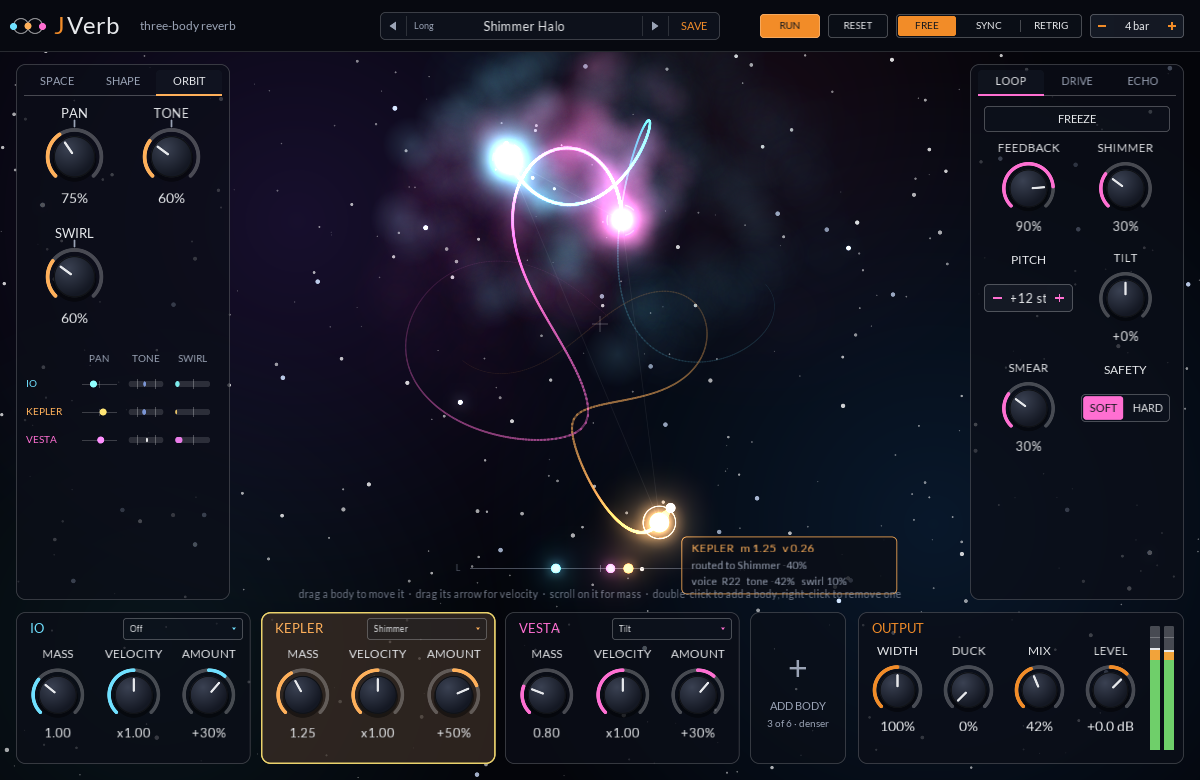
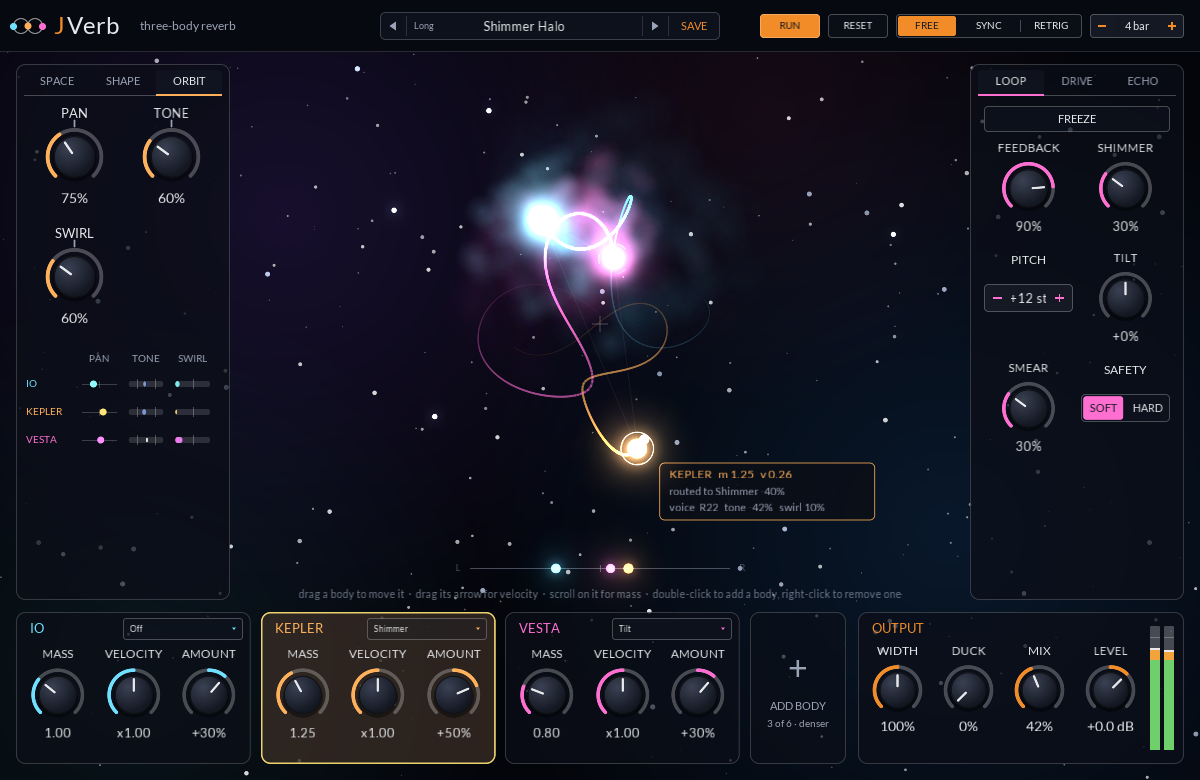
JVerb: draw the system at its System Size, and let it reach 10 AU (#30)
The stage now scales the orbits with System Size (a quarter of the stage
at 0.25 AU, all of it at 10) and shows faint AU rings while the knob
turns, fading 5 s after, or while the mouse is over the system. System
Size runs to 10 AU, so the longest tank line reaches 2.02 s; the early
taps stop at 4x. Feedback eases off past Size 3 to stay calibrated.

Claude-Session: https://claude.ai/code/session_01P2F1L9BY9UGHiV1D4VG4BV

Changed region(s): [[0.3083, 0.0615, 0.7092, 0.7692], [0.37, 0.5231, 0.4008, 0.5538]]

diff --git a/plugins/jverb/src/editor.cpp b/plugins/jverb/src/editor.cpp
@@ -175,6 +175,8 @@ public:
 
    // Readout and velocity arrow for this body (-1 for none). Clicking a body selects it.
    int selected = -1;
+   // The System Size knob, which sets how big the stage draws the system.
+   float systemSize = 1.0f;
 
    // One frame of animation, `dt` seconds after the last.
    void advance(const OrbitFrame &f, float dt) {
@@ -218,6 +220,19 @@ public:
          zoom_ += (target - zoom_) * std::min(1.0f, dt * 2.5f);
       else
          zoom_ = std::min(target, zoom_ * std::exp(std::min(0.05f, 0.25f * std::log(target / zoom_)) * dt));
+      // On top of that the stage draws the system at its System Size: a quarter of the stage at
+      // 0.25 AU, about half at 1, all of it at 10 (on a log scale, so both ends stay readable). It
+      // follows the knob in about a tenth of a second.
+      const float sized = 0.25f + 0.75f * std::log(std::clamp(systemSize, 0.25f, 10.0f) / 0.25f) / std::log(40.0f);
+      sizeView_ = sizeView_ <= 0.0f ? sized : sizeView_ + (sized - sizeView_) * std::min(1.0f, dt * 10.0f);
+      // The AU rings show only while System Size is turning (gone 5 s after it stops) or while the
+      // mouse is over the system.
+      if (shownSize_ > 0.0f && std::abs(systemSize - shownSize_) > 1e-4f)
+         sinceSize_ = 0.0f;
+      shownSize_ = systemSize;
+      sinceSize_ += dt;
+      const float want = overStage_ ? 1.0f : std::clamp((5.0f - sinceSize_) / 1.5f, 0.0f, 1.0f);
+      scaleAlpha_ += (want - scaleAlpha_) * std::min(1.0f, dt * 6.0f);
 
       for (int band = 0; band < 3; ++band) {
          if (f.hits[band] != seenHits_[band]) {
@@ -242,11 +257,13 @@ public:
       c.fill(0, 0, width(), height());
       drawBackdrop(c, s);
 
-      const float ppu = zoom_ * s;
+      const float ppu = scale() * s;
       const float cx = kStageX * s, cy = kStageY * s;
       const auto X = [&](float x) { return cx + x * ppu; };
       const auto Y = [&](float y) { return cy + y * ppu; };
       const OrbitFrame &f = frame_;
+
+      drawScale(c, s, cx, cy, ppu);
 
       // The centre of mass, and a faint tether between each body and the next.
       c.setColor(glow(kText, 0.3f, 1.0f));
@@ -379,6 +396,8 @@ public:
    }
 
    void mouseMove(const visage::MouseEvent &e) override {
+      const float s = width() / designWidth_;
+      overStage_ = std::hypot(e.position.x - kStageX * s, e.position.y - kStageY * s) < kStageRadius * 1.15f * s;
       const int h = bodyAt(e.position);
       if (h != hover_) {
          hover_ = h;
@@ -386,7 +405,10 @@ public:
       }
    }
 
-   void mouseExit(const visage::MouseEvent &) override { hover_ = -1; }
+   void mouseExit(const visage::MouseEvent &) override {
+      hover_ = -1;
+      overStage_ = false;
+   }
 
    // Scrolling on a body changes its mass, about 5% a notch.
    bool mouseWheel(const visage::MouseEvent &e) override {
@@ -428,7 +450,7 @@ private:
       host_.endEdit(kBodies);
    }
 
-   float ppu() const { return zoom_ * width() / designWidth_; }
+   float ppu() const { return scale() * width() / designWidth_; }
    visage::Point toWorld(visage::Point p) const {
       const float s = width() / designWidth_;
       return {(p.x - kStageX * s) / ppu(), (p.y - kStageY * s) / ppu()};
@@ -599,7 +621,7 @@ private:
    void drawBackdrop(visage::Canvas &c, float s) {
       const float w = width(), h = height();
       const float cx = kStageX * s, cy = kStageY * s;
-      const float zoom = zoom_ > 0.0f ? zoom_ / kRestZoom : 1.0f;
+      const float zoom = zoom_ > 0.0f ? scale() / (0.53f * kRestZoom) : 1.0f;
       // Nebulae, far away, and brightening a little with the tank.
       const float lift = std::min(1.0f, frame_.late * 3.0f);
       const float nk = std::clamp(std::pow(zoom, 0.25f), 0.8f, 1.4f);
@@ -640,6 +662,28 @@ private:
          const float r = (2.5f + 0.25f * bodyRadius(f.mass[b])) * s;
          c.setColor(glow(kBodyColors[b], 1.0f, 1.4f));
          c.circle(x - r, y - r + 0.5f * s, 2 * r);
+      }
+   }
+
+   // Pixels per world unit (before the window's own scale): the camera's fit times the System Size.
+   float scale() const { return zoom_ * (sizeView_ > 0.0f ? sizeView_ : 0.53f); }
+
+   // Faint rings at round distances in AU, so the size of the system reads off the stage. A world
+   // unit is System Size AU.
+   void drawScale(visage::Canvas &c, float s, float cx, float cy, float ppu) {
+      if (scaleAlpha_ < 0.01f)
+         return;
+      const float perAu = ppu / std::clamp(systemSize, 0.25f, 10.0f);
+      for (const float au : {0.25f, 0.5f, 1.0f, 2.0f, 4.0f, 8.0f, 16.0f}) {
+         const float r = au * perAu;
+         if (r < 40.0f * s || r > kStageRadius * 1.08f * s)
+            continue;
+         c.setColor(glow(kText, 0.07f * scaleAlpha_, 1.0f));
+         c.ring(cx - r, cy - r, 2 * r, 1.0f * s);
+         char label[16];
+         std::snprintf(label, sizeof label, au < 1.0f ? "%.2g AU" : "%.0f AU", au);
+         c.setColor(glow(kDim, 0.45f * scaleAlpha_, 1.0f));
+         c.text(label, ui::font(9 * s), visage::Font::kLeft, cx + 4 * s, cy - r - 12 * s, 60 * s, 11 * s);
       }
    }
 
@@ -695,7 +739,9 @@ private:
    uint32_t seenHits_[3] = {};
    float flare_[3] = {};
    float spawnCarry_[3] = {};
-   float zoom_ = 0.0f, span_ = 0.0f;
+   float zoom_ = 0.0f, span_ = 0.0f, sizeView_ = 0.0f;
+   float shownSize_ = 0.0f, sinceSize_ = 1e9f, scaleAlpha_ = 0.0f;
+   bool overStage_ = false;
    float swirlAngle_[kMaxBodies] = {};
    float time_ = 0.0f;
    int hover_ = -1, dragBody_ = -1;
@@ -1034,6 +1080,7 @@ public:
       OrbitFrame f;
       if (host_.readFrame(f))
          frame_ = f;
+      view_->systemSize = static_cast<float>(host_.paramValue(kSize));
       view_->advance(frame_, dt);
       const int count = currentBodies();
       if (count != laidOut_)

diff --git a/plugins/jverb/src/engine.h b/plugins/jverb/src/engine.h
@@ -612,7 +612,7 @@ public:
    // Once per control tick, before that tick's samples.
    void setControl(const Control &c) {
       c_ = c;
-      const double size = std::clamp(c.size, 0.25, 4.0);
+      const double size = std::clamp(c.size, 0.25, 10.0);
       const bool freeze = c.freeze;
       // Lines and their decay. Sixteen lines always, whatever the bodies do: each loop is the line
       // plus the allpass inside it, and decays to -60 dB in the Decay time.
@@ -700,7 +700,7 @@ public:
       }
       targetReverseWindow_ = static_cast<float>((0.08 + 0.5 * std::max(0.0, -c.attack)) * std::min(2.0, std::sqrt(size)) * sr_);
       predelaySamples_.set(static_cast<float>(c.predelayMs * 0.001 * sr_));
-      earlySize_.set(static_cast<float>(size));
+      earlySize_.set(static_cast<float>(std::min(4.0, size)));
       attack_.set(static_cast<float>(c.attack));
       inputGain_.set(freeze ? 0.0f : 1.0f);
 
@@ -712,7 +712,10 @@ public:
       // Feedback where a tail first sustains, over Decay 1 to 30 s and Size 0.5 to 3, lands it
       // between 96% and 123%, mostly 100% to 115%.
       const double meanLoss = loss / kLines;
-      const double loopScale = std::min(kLoopMax, kLoopCalibration * std::pow(meanLoss, kLoopExponent));
+      // Past Size 3 the long lines ring up more than the curve expects, so it eases off a little there
+      // (measured at Size 6 and 10).
+      const double loopScale = std::min(kLoopMax, kLoopCalibration * std::pow(meanLoss, kLoopExponent)) *
+                               std::pow(std::min(1.0, 3.0 / size), 0.2);
       loopScale_.set(static_cast<float>(loopScale / kLoopMax));
       loopGain_.set(freeze ? 0.0f : static_cast<float>(c.feedback * loopScale));
       shimmer_.set(static_cast<float>(c.shimmer));
@@ -942,7 +945,7 @@ public:
    double bodyTone(int b) const { return bodyTone_[b]; }
    double bodySwirl(int b) const { return bodySwirl_[b]; }
 
-   static constexpr double kMaxLineSeconds = 0.85;
+   static constexpr double kMaxLineSeconds = 2.1;
    static constexpr double kMaxTankApSeconds = 0.06;
 
 private:

diff --git a/plugins/jverb/src/params.h b/plugins/jverb/src/params.h
@@ -122,7 +122,7 @@ struct ParamTable {
    ParamTable() {
       const jclap::core::ParamDef fixed[] = {
          {kDecay, "Decay", "Space", 0.2, 60.0, 4.0, kMod},
-         {kSize, "System Size", "Space", 0.25, 4.0, 1.0, kMod},
+         {kSize, "System Size", "Space", 0.25, 10.0, 1.0, kMod},
          {kGravity, "Gravity", "Space", 0.25, 4.0, 1.0, kMod},
          {kBodies, "Bodies", "Space", 2.0, 6.0, 3.0, kToggle},
          {kMotion, "Motion", "Space", 0.0, 2.0, 0.4, kMod},

diff --git a/plugins/jverb/ARCHITECTURE.md b/plugins/jverb/ARCHITECTURE.md
@@ -135,8 +135,10 @@ sample. Freeze closes this input.
 
 The tank is a feedback delay network of **sixteen lines**. At System Size 1 they run 29.3, 33.1,
 37.9, 42.7, 48.9, 55.3, 63.1, 71.9, 81.7, 92.9, 105.7, 120.3, 137.1, 155.9, 177.7 and 201.9 ms: even on
-a log scale, none a simple ratio of another. System Size (0.25 to 4) scales them all, up to a cap
-of 0.84 s. The number of lines never changes, whatever the bodies do.
+a log scale, none a simple ratio of another. System Size (0.25 to 10 AU) scales them all, so at
+10 AU the longest line runs 2.02 s (the cap is 2.09 s). The early taps stop growing at 4x. The panel
+draws the system at its System Size, a quarter of the stage at 0.25 AU and all of it at 10, with
+faint AU rings while the knob turns or the mouse is over the system. The number of lines never changes, whatever the bodies do.
 
 Each pass through a line goes:
 
@@ -231,9 +233,10 @@ voices see, before the voices), shapes it, and adds it to the tank's input on th
 
 **Why Feedback means the same at every decay.** The tank's resonances get louder the longer the
 decay: their peak gain grows about as one over what a line loses each pass. So the loop is scaled by
-that loss: loop scale = min(1.25, 3.3 x (mean loss per pass)^0.83). The curve was fitted by
-bisecting, over Decay 1 to 30 s and Size 0.5 to 3, the Feedback where a tail first sustains; it lands
-between 96% and 123%, mostly 100% to 115%. So below 100% the tail still dies away (just longer and
+that loss: loop scale = min(1.25, 3.3 x (mean loss per pass)^0.83), times (3 / Size)^0.2 past Size
+3, where the long lines ring up more than the curve expects. The curve was fitted by bisecting, over
+Decay 1 to 30 s and Size 0.5 to 3, the Feedback where a tail first sustains; it lands between 96% and
+123%, mostly 100% to 115%. At Size 6 and 10 it lands between 72% and 127%. So below 100% the tail still dies away (just longer and
 more coloured by the loop), and past it the loop grows until the safety stage holds it. Feedback runs
 to 110%.
 
@@ -395,7 +398,7 @@ is automatable; "Mod" means the host can also modulate it (CLAP param modulation
 | Param | Range | Default | What it does |
 | --- | --- | --- | --- |
 | Decay | 0.2 to 60 s | 4 s | RT60 of the tank's mids. Mod, and a body target. |
-| System Size | 0.25 to 4 | 1 | Scales every tank line, the tank allpasses (up to 2x), the early taps, the swell and reverse windows. Mod. |
+| System Size | 0.25 to 10 | 1 | Scales every tank line, the tank allpasses (up to 2x), the early taps (up to 4x), the swell and reverse windows, and how big the stage draws the system. Mod. |
 | Gravity | 0.25 to 4 | 1 | G in the sim: higher is faster and tighter. Mod. |
 | Bodies | 2 to 6 | 3 | How many bodies, voices and bands. |
 | Motion | 0 to 200% | 40% | Tank line drift. See above. Mod. |

diff --git a/plugins/jverb/README.md b/plugins/jverb/README.md
@@ -32,7 +32,7 @@ in -> low/high cut -> [drive PRE] -> [echo INTO] -> predelay + early reflections
    -> early/late -> [drive POST] -> [echo AFTER] -> duck, width, mix, level -> out
 ```
 
-- **Space**: Decay (RT60), System Size (scales every line and the early reflections), Gravity (how
+- **Space**: Decay (RT60), System Size (0.25 to 10 AU: scales every line, up to 2 s at the top, and the early reflections, and sets how big the stage draws the system), Gravity (how
   fast and tight the orbits run), Bodies, Motion (how far the lines drift), Predelay and Damp High.
   **Shape** has Attack, Diffusion, Early/Late, the bass multiplier and crossover, the input cuts and
   React.
